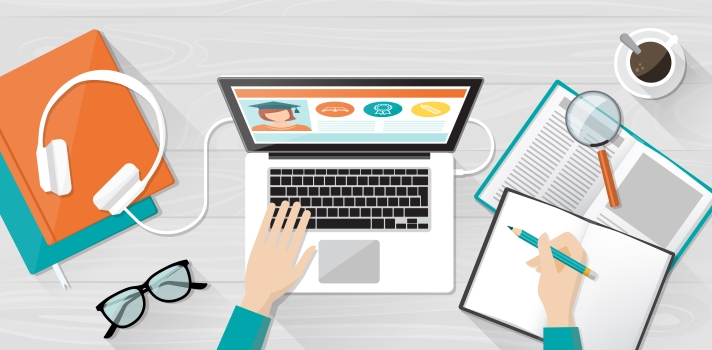
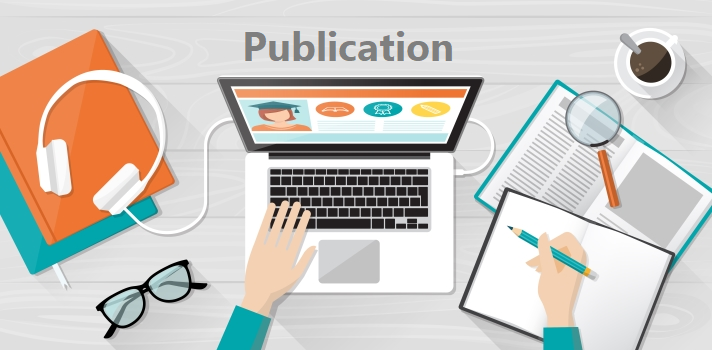
Hide button

Changed region(s): [[0.3399, 0.0857, 0.6489, 0.1714]]

diff --git a/smart/resources/views/publication/index.blade.php b/smart/resources/views/publication/index.blade.php
@@ -13,7 +13,7 @@
   <div class="text-center" style="margin-bottom:20px;">
     <img src="{{ url('/') }}/img/online-exmaination-system.png" width="100%">
   </div>
-  <h2 id="title">Publications</h2>
+  <h2 id="title">Publication</h2>
   <h5  style="margin-bottom:20px;">
     รวมผลงานที่ได้รับการตีพิมพ์เผยแพร่ต่อสาธารณะของหลักสูตรวิทยาการคอมพิวเตอร์มหาวิทยาลัมหาวิทยาลัยราชภัฏวไลยอลงกรณ์ ในพระบรมราชูปถัมภ์
   </h5>
@@ -153,7 +153,7 @@
 
 </script>
 
-<form action="#" method="POST" id="form_delete" >
+<form action="#" method="POST" id="form_delete" class="d-none" >
   {{ csrf_field() }}
   {{ method_field('DELETE') }}
   <button type="submit">Delete</button>
